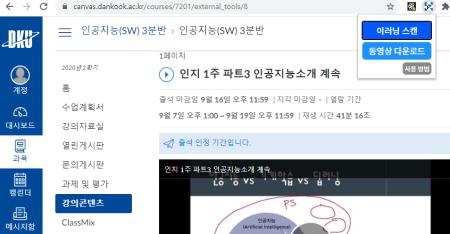
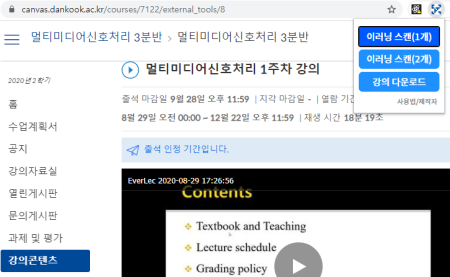
Finish v0.1 + Support 2 items

diff --git a/popup.js b/popup.js
@@ -1,10 +1,15 @@
-const scanBt = document.querySelector('#clms_scan_bt');
+const scanOneBt = document.querySelector('#clms_scan_one_bt');
+const scanTwoBt = document.querySelector('#clms_scan_two_bt');
 const videoBt = document.querySelector('#video_download_bt');
 const view = document.querySelector('#wrapper');
 const errmsg_scan = '이러닝이 아닙니다😢';
 const errmsg_vid = '강의가 아닙니다😢';
 
-scanBt.addEventListener('click', () => {
+document.querySelector('#help_bt').addEventListener('click', () => {
+  window.open('/howtouse/index.html');
+});
+
+scanOneBt.addEventListener('click', () => {
   chrome.tabs.executeScript(
     {
       code:
@@ -15,6 +20,35 @@ scanBt.addEventListener('click', () => {
         view.innerHTML += `<div style="margin-top:5px; color: crimson;">${errmsg_scan}</div>`;
       } else {
         window.open(clmsUrl[0]);
+      }
+    },
+  );
+});
+
+scanTwoBt.addEventListener('click', () => {
+  chrome.tabs.executeScript(
+    {
+      code:
+        'document.getElementsByTagName("iframe")[1].contentDocument.getElementsByTagName("iframe")[0].contentDocument.getElementsByTagName("iframe")[0].src',
+    },
+    (clmsUrl1) => {
+      if (chrome.runtime.lastError || clmsUrl1[0].length < 10) {
+        view.innerHTML += `<div style="margin-top:5px; color: crimson;">${errmsg_scan}</div>`;
+      } else {
+        view.innerHTML += `<a href="${clmsUrl1}" target="_blank">첫번째 강의 열기</a>`;
+        chrome.tabs.executeScript(
+          {
+            code:
+              'document.getElementsByTagName("iframe")[1].contentDocument.getElementsByTagName("iframe")[1].contentDocument.getElementsByTagName("iframe")[0].src',
+          },
+          (clmsUrl2) => {
+            if (chrome.runtime.lastError || clmsUrl2[0].length < 10) {
+              view.innerHTML += `<div style="margin-top:5px; color: crimson;">${errmsg_scan}</div>`;
+            } else {
+              view.innerHTML += `<a href="${clmsUrl2}" target="_blank">두번째 강의 열기</a>`;
+            }
+          },
+        );
       }
     },
   );
@@ -41,8 +75,4 @@ videoBt.addEventListener('click', () => {
       }
     },
   );
-});
-
-document.querySelector('#help_bt').addEventListener('click', () => {
-  window.open('/howtouse/index.html');
 });

diff --git a/howtouse/index.html b/howtouse/index.html
@@ -15,8 +15,16 @@
       >
     </div>
     <hr style="border: 1px solid #ccc" />
-    <h2>✔ Step 1. 이러닝 강의콘텐츠에서 강의 들어간 후 [이러닝 스캔] 클릭하기</h2>
+    <h2>
+      ✔ Step 1. (한 페이지에 영상이 한개인 경우) 이러닝 강의콘텐츠에서 강의 들어간 후 [이러닝
+      스캔(1개)] 클릭하기
+    </h2>
     <img src="step1.png" />
+    <h3>✔ Step 1-1. 한 페이지에 영상이 두개인 경우</h3>
+    <h3>💡 밑의 사진처럼 하루에 영상을 두개로 나눠서 올리는 교수님의 강의의 경우,</h3>
+    <img src="step1-1.png" />
+    <h3>💡 [이러닝 스캔(2개)]를 클릭해서 원하는 강의를 클릭하시면 됩니다!</h3>
+    <img src="step1-2.png" />
     <h2>✔ Step 2. 로딩 동영상 재생 후 강의 동영상으로 넘어가면 [강의 다운로드] 클릭하기</h2>
     <h3 style="color: crimson">
       꼭 2초짜리 로딩 동영상을 재생한 후 강의 동영상이 나오면 클릭하세요!

diff --git a/popup.html b/popup.html
@@ -6,7 +6,8 @@
   </head>
   <body>
     <div id="wrapper">
-      <button id="clms_scan_bt">이러닝 스캔</button>
+      <button id="clms_scan_one_bt">이러닝 스캔(1개)</button>
+      <button id="clms_scan_two_bt">이러닝 스캔(2개)</button>
       <button id="video_download_bt">강의 다운로드</button>
       <div id="help_wrapper"><button id="help_bt">사용법/제작자</button></div>
     </div>

diff --git a/style.css b/style.css
@@ -21,7 +21,7 @@ button {
   border-radius: 6px;
   background: dodgerblue;
   color: white;
-  font-size: 16px;
+  font-size: 15px;
   font-weight: 500;
   padding: 0.4rem 0.6rem;
   cursor: pointer;
@@ -53,6 +53,7 @@ a {
 }
 
 a:hover {
+  color: rgb(0, 89, 255);
   text-decoration: underline;
 }
 
